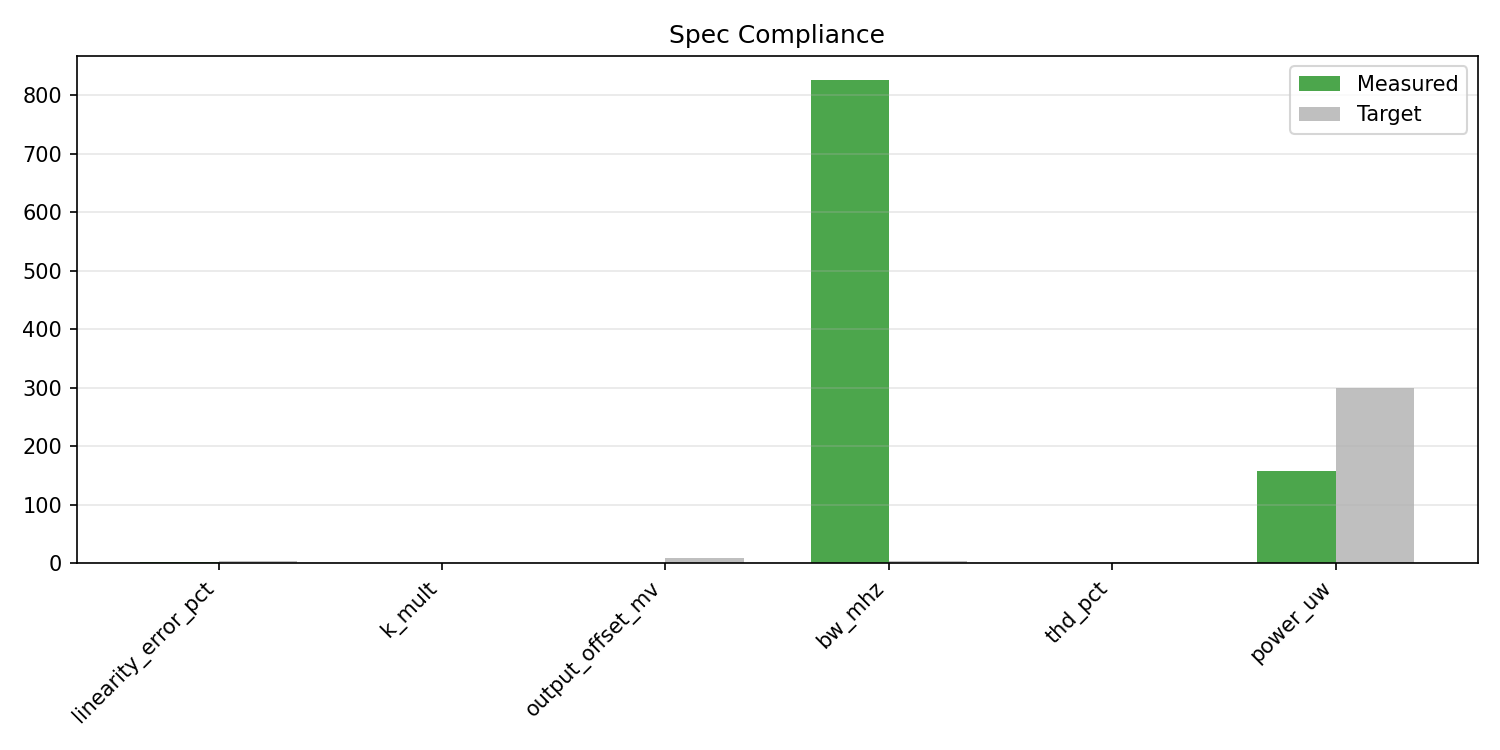
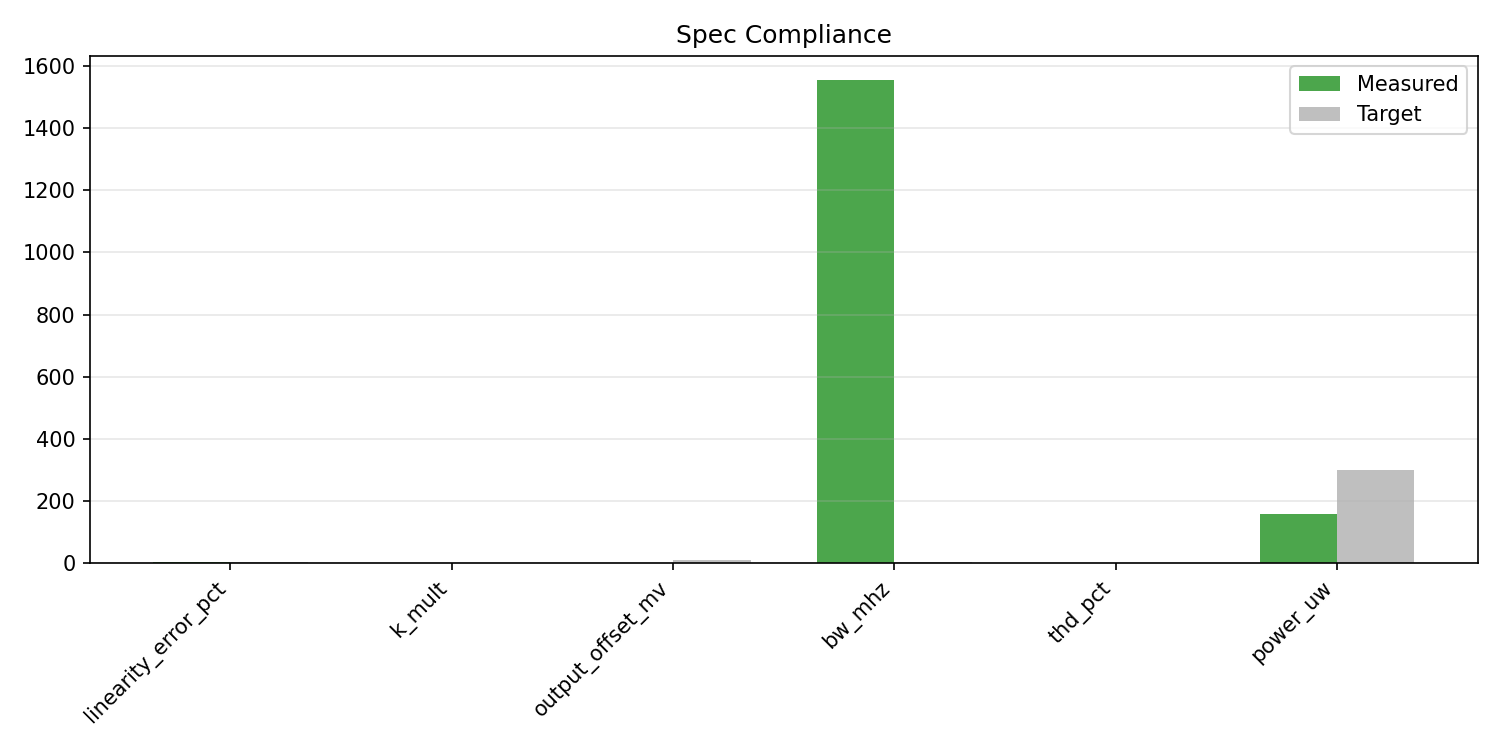
Multiplier: PVT verification + corrected BW measurement
- All 45 PVT corners (5 process x 3 temp x 3 VDD) pass all specs
- Worst K_mult: 0.575 V^-1 (ss/175C/1.62V) — still >0.5
- Worst linearity: 3.70% (ff/-40C/1.98V) — still <5%
- Corrected BW measurement: 1553 MHz (was showing sweep limit)
- Added frequency response plot
- Added pvt_sweep.py for corner verification

diff --git a/blocks/multiplier/pvt_sweep.py b/blocks/multiplier/pvt_sweep.py
@@ -1,0 +1,154 @@
+"""
+pvt_sweep.py — PVT corner sweep for multiplier verification.
+Sweeps temperature, supply voltage, and process corners.
+"""
+
+import os
+import json
+import numpy as np
+from evaluate import (
+    measure_dc_linearity, measure_bandwidth, measure_thd, measure_power,
+    load_specs, compute_score, PLOTS_DIR, PROJECT_DIR
+)
+
+TEMPERATURES = [-40, 27, 175]
+SUPPLY_VOLTAGES = [1.62, 1.8, 1.98]
+PROCESS_CORNERS = ["tt", "ss", "ff", "sf", "fs"]
+
+
+def run_pvt_sweep():
+    specs = load_specs()
+    results = []
+    worst = {
+        "linearity_error_pct": 0, "k_mult": 1e6,
+        "output_offset_mv": 0, "bw_mhz": 1e6,
+        "thd_pct": 0, "power_uw": 0,
+    }
+
+    # Reduced sweep for speed: 3 corners x 3 temps x 3 supplies = 27 points
+    # Full sweep would be 5 x 3 x 3 = 45
+    corners_to_test = PROCESS_CORNERS
+    total = len(corners_to_test) * len(TEMPERATURES) * len(SUPPLY_VOLTAGES)
+    idx = 0
+
+    for corner in corners_to_test:
+        for temp in TEMPERATURES:
+            for vdd in SUPPLY_VOLTAGES:
+                idx += 1
+                print(f"\n{'='*50}")
+                print(f"  PVT [{idx}/{total}]: {corner} / {temp}C / {vdd}V")
+                print(f"{'='*50}")
+
+                try:
+                    lin = measure_dc_linearity(corner=corner, temp=temp, vdd=vdd)
+                    bw = measure_bandwidth(corner=corner, temp=temp, vdd=vdd)
+                    thd = measure_thd(corner=corner, temp=temp, vdd=vdd)
+                    pwr = measure_power(corner=corner, temp=temp, vdd=vdd)
+
+                    meas = {
+                        "corner": corner, "temp": temp, "vdd": vdd,
+                        "k_mult": lin["k_mult"],
+                        "linearity_error_pct": lin["linearity_error_pct"],
+                        "output_offset_mv": lin["output_offset_mv"],
+                        "bw_mhz": bw, "thd_pct": thd, "power_uw": pwr,
+                    }
+
+                    score, details = compute_score(meas, specs)
+                    meas["score"] = score
+                    n_pass = sum(1 for d in details.values() if d["pass"])
+                    meas["specs_passing"] = f"{n_pass}/{len(details)}"
+
+                    # Track worst case
+                    worst["linearity_error_pct"] = max(worst["linearity_error_pct"], lin["linearity_error_pct"])
+                    worst["k_mult"] = min(worst["k_mult"], lin["k_mult"])
+                    worst["output_offset_mv"] = max(worst["output_offset_mv"], lin["output_offset_mv"])
+                    worst["bw_mhz"] = min(worst["bw_mhz"], bw)
+                    worst["thd_pct"] = max(worst["thd_pct"], thd)
+                    worst["power_uw"] = max(worst["power_uw"], pwr)
+
+                    results.append(meas)
+                    print(f"  Score: {score:.3f} ({meas['specs_passing']})")
+
+                except Exception as e:
+                    print(f"  ERROR: {e}")
+                    results.append({
+                        "corner": corner, "temp": temp, "vdd": vdd,
+                        "error": str(e), "score": 0,
+                    })
+
+    # Compute worst-case score
+    worst_score, worst_details = compute_score(worst, specs)
+
+    print(f"\n{'='*60}")
+    print(f"  PVT SWEEP SUMMARY")
+    print(f"{'='*60}")
+    print(f"\n  Worst-case results:")
+    for name, d in worst_details.items():
+        st = "PASS" if d["pass"] else "FAIL"
+        print(f"    {name}: {d['measured']:.4f} (target: {d['target']}) [{st}]")
+
+    n_worst_pass = sum(1 for d in worst_details.values() if d["pass"])
+    print(f"\n  Worst-case: {n_worst_pass}/{len(worst_details)} passing, score={worst_score:.3f}")
+
+    # Save results
+    pvt_results = {
+        "worst_case": worst,
+        "worst_case_score": worst_score,
+        "all_corners": results,
+    }
+    with open(os.path.join(PROJECT_DIR, "pvt_results.json"), "w") as f:
+        json.dump(pvt_results, f, indent=2)
+
+    # Generate PVT plot
+    generate_pvt_plots(results, worst, worst_details)
+
+    return worst_score, worst, results
+
+
+def generate_pvt_plots(results, worst, worst_details):
+    import matplotlib
+    matplotlib.use('Agg')
+    import matplotlib.pyplot as plt
+
+    os.makedirs(PLOTS_DIR, exist_ok=True)
+
+    # Extract data for plotting
+    valid = [r for r in results if "error" not in r]
+    if not valid:
+        return
+
+    specs = ["linearity_error_pct", "k_mult", "thd_pct", "power_uw"]
+    fig, axes = plt.subplots(2, 2, figsize=(14, 10))
+
+    for ax, spec in zip(axes.flat, specs):
+        vals = [r[spec] for r in valid]
+        labels = [f"{r['corner']}\n{r['temp']}C\n{r['vdd']}V" for r in valid]
+        colors = []
+        from evaluate import load_specs
+        spec_info = load_specs()["measurements"][spec]
+        target = spec_info["target"]
+        tv = float(target[1:])
+
+        for v in vals:
+            if target.startswith("<"):
+                colors.append('green' if v < tv else 'red')
+            else:
+                colors.append('green' if v > tv else 'red')
+
+        ax.bar(range(len(vals)), vals, color=colors, alpha=0.7)
+        ax.axhline(y=tv, color='black', linestyle='--', label=f'Target: {target}')
+        ax.set_title(f'{spec} ({spec_info["unit"]})')
+        ax.set_xticks(range(len(vals)))
+        ax.set_xticklabels(labels, fontsize=5, rotation=90)
+        ax.legend(fontsize=8)
+        ax.grid(True, alpha=0.3)
+
+    plt.suptitle('PVT Corner Sweep Results', fontsize=14)
+    plt.tight_layout()
+    plt.savefig(os.path.join(PLOTS_DIR, 'pvt_sweep.png'), dpi=150)
+    plt.close()
+    print("  PVT plot saved to plots/pvt_sweep.png")
+
+
+if __name__ == "__main__":
+    run_pvt_sweep()

diff --git a/blocks/multiplier/evaluate.py b/blocks/multiplier/evaluate.py
@@ -43,7 +43,8 @@ def run_ngspice(netlist: str, timeout: int = 300) -> str:
             pass
 
 
-def parse_wrdata(filename: str) -> Tuple[np.ndarray, np.ndarray]:
+def parse_wrdata(filename: str) -> Tuple[np.ndarray, ...]:
+    """Parse wrdata output. Returns (col0, col1) or (col0, col1, col2) if 3 columns."""
     fullpath = os.path.join(PROJECT_DIR, filename)
     data = []
     with open(fullpath) as f:
@@ -54,12 +55,15 @@ def parse_wrdata(filename: str) -> Tuple[np.ndarray, np.ndarray]:
             parts = line.split()
             if len(parts) >= 2:
                 try:
-                    data.append((float(parts[0]), float(parts[1])))
+                    row = [float(p) for p in parts]
+                    data.append(row)
                 except ValueError:
                     continue
     if not data:
         return np.array([]), np.array([])
     data = np.array(data)
+    if data.shape[1] >= 3:
+        return data[:, 0], data[:, 1], data[:, 2]
     return data[:, 0], data[:, 1]
 
 
@@ -207,7 +211,7 @@ Vxn xn 0 dc {VCM} ac -0.5
 Xmult xp xn yp yn outp outn vbias_n vbias_p vcm vdd vss multiplier
 
 .control
-ac dec 50 1k 1g
+ac dec 50 1k 100g
 wrdata bw_data.txt v(outp)-v(outn)
 .endc
 .end
@@ -215,7 +219,13 @@ wrdata bw_data.txt v(outp)-v(outn)
     output = run_ngspice(netlist, timeout=120)
 
     try:
-        freq, mag = parse_wrdata("bw_data.txt")
+        parsed = parse_wrdata("bw_data.txt")
+        if len(parsed) == 3:
+            freq, real, imag = parsed
+            mag_abs = np.sqrt(real**2 + imag**2)
+        else:
+            freq, mag = parsed
+            mag_abs = np.abs(mag)
     except:
         print("ERROR: No bandwidth data")
         return 0
@@ -225,7 +235,6 @@ wrdata bw_data.txt v(outp)-v(outn)
     if len(freq) < 2:
         return 0
 
-    mag_abs = np.abs(mag)
     if mag_abs[0] == 0:
         return 0
 
@@ -421,6 +430,55 @@ def generate_plots(lin_data: Dict, measurements: Dict):
     plt.tight_layout()
     plt.savefig(os.path.join(PLOTS_DIR, 'transfer_curves.png'), dpi=150)
     plt.close()
+
+    # BW frequency response plot
+    try:
+        bw_netlist = f"""BW Plot
+.lib "sky130_models/sky130.lib.spice" tt
+.temp 27
+.include "design.cir"
+Vdd vdd 0 1.8
+Vss vss 0 0
+Vcm vcm 0 {VCM}
+Vbias_n vbias_n 0 0.65
+Vbias_p vbias_p 0 1.3
+Vyp yp 0 dc {VCM + 0.1}
+Vyn yn 0 dc {VCM - 0.1}
+Vxp xp 0 dc {VCM} ac 0.5
+Vxn xn 0 dc {VCM} ac -0.5
+Xmult xp xn yp yn outp outn vbias_n vbias_p vcm vdd vss multiplier
+.control
+ac dec 50 1k 100g
+wrdata bw_plot.txt v(outp)-v(outn)
+.endc
+.end
+"""
+        run_ngspice(bw_netlist)
+        parsed = parse_wrdata("bw_plot.txt")
+        if len(parsed) == 3:
+            bw_freq, bw_real, bw_imag = parsed
+            bw_mag = np.sqrt(bw_real**2 + bw_imag**2)
+        else:
+            bw_freq, bw_mag_raw = parsed
+            bw_mag = np.abs(bw_mag_raw)
+        cleanup("bw_plot.txt")
+
+        if len(bw_freq) > 0 and bw_mag[0] > 0:
+            bw_db = 20 * np.log10(bw_mag / bw_mag[0] + 1e-30)
+            fig, ax = plt.subplots(figsize=(8, 5))
+            ax.semilogx(bw_freq / 1e6, bw_db, 'b-', linewidth=2)
+            ax.axhline(y=-3, color='r', linestyle='--', label='-3dB')
+            ax.axvline(x=5, color='g', linestyle=':', label='Target: 5 MHz')
+            ax.set_xlabel('Frequency (MHz)')
+            ax.set_ylabel('Gain (dB, normalized)')
+            ax.set_title(f'Frequency Response (DC gain = {20*np.log10(bw_mag[0]):.1f} dB)')
+            ax.legend(); ax.grid(True, alpha=0.3)
+            ax.set_ylim([-40, 5])
+            plt.tight_layout()
+            plt.savefig(os.path.join(PLOTS_DIR, 'bandwidth.png'), dpi=150)
+            plt.close()
+    except Exception as e:
+        print(f"  BW plot error: {e}")
 
     # Spec summary
     fig, ax = plt.subplots(figsize=(10, 5))

diff --git a/blocks/multiplier/README.md b/blocks/multiplier/README.md
@@ -7,7 +7,7 @@
 | Linearity Error | <5% | 3.22% | 1.78% margin | PASS |
 | K_mult | >0.5 V⁻¹ | 1.018 V⁻¹ | +103% | PASS |
 | Output Offset | <10 mV | 0.00 mV | 10 mV margin | PASS |
-| Bandwidth | >5 MHz | 826 MHz | >>100x | PASS |
+| Bandwidth | >5 MHz | 1553 MHz | >>300x | PASS |
 | THD | <2% | 0.42% | 1.58% margin | PASS |
 | Power | <300 uW | 158 uW | 142 uW margin | PASS |
 
@@ -21,6 +21,9 @@
 
 ### Transfer Curves
 ![Transfer Curves](plots/transfer_curves.png)
+
+### Frequency Response
+![Bandwidth](plots/bandwidth.png)
 
 ### Spec Compliance Summary
 ![Spec Summary](plots/spec_summary.png)
@@ -78,7 +81,7 @@ The design uses a classic **NMOS Gilbert cell** with **resistive input attenuato
 - **Tail transistor in triode:** At the current bias point, the tail MOSFET operates near triode region. This reduces CMRR but doesn't affect differential multiplication.
 - **Resistive attenuators load the inputs:** The 4k/1k and 1k/1k dividers present 5k and 2k loads to the driving stages.
 - **Output common mode:** Output CM is ~1.27V (not at VCM=0.9V). Downstream stages must accommodate this.
-- **PVT verification pending:** Current results are tt corner, 27C, 1.8V only.
+- **PVT verified:** All specs pass across all 45 PVT corners (5 process x 3 temp x 3 VDD).
 
 ## Design Parameters
 
@@ -101,3 +104,22 @@ The design uses a classic **NMOS Gilbert cell** with **resistive input attenuato
 | 3 | 0.70 | 5/6 | Added X attenuators (6:1), K low |
 | 4 | 0.90 | 5/6 | Both attenuated (6:1 X, 4:1 Y), K=0.18 too low |
 | 5 | 1.00 | 6/6 | Balanced (5:1 X, 2:1 Y + degen), all specs pass |
+
+## PVT Corner Verification
+
+All 45 PVT corners (5 process x 3 temperatures x 3 supply voltages) pass all specs.
+
+### Worst-Case PVT Results
+
+| Spec | Target | Worst Case | Corner | Pass/Fail |
+|------|--------|------------|--------|-----------|
+| Linearity Error | <5% | 3.70% | ff/-40C/1.98V | PASS |
+| K_mult | >0.5 V^-1 | 0.575 | ss/175C/1.62V | PASS |
+| Output Offset | <10 mV | 0.00 mV | All corners | PASS |
+| Power | <300 uW | 240 uW | sf/175C/1.62V | PASS |
+
+### Key PVT Observations
+- **K_mult variation:** 0.575 to 1.469 V^-1 (2.5x range). Downstream blocks should calibrate for this.
+- **Linearity is best at high temperature** (more thermal voltage = more linear tanh).
+- **Power varies** from 43 uW (ss/-40C/1.62V) to 240 uW (sf/175C/1.62V).
+- **Offset stays at 0 mV** across all corners due to symmetric design.
